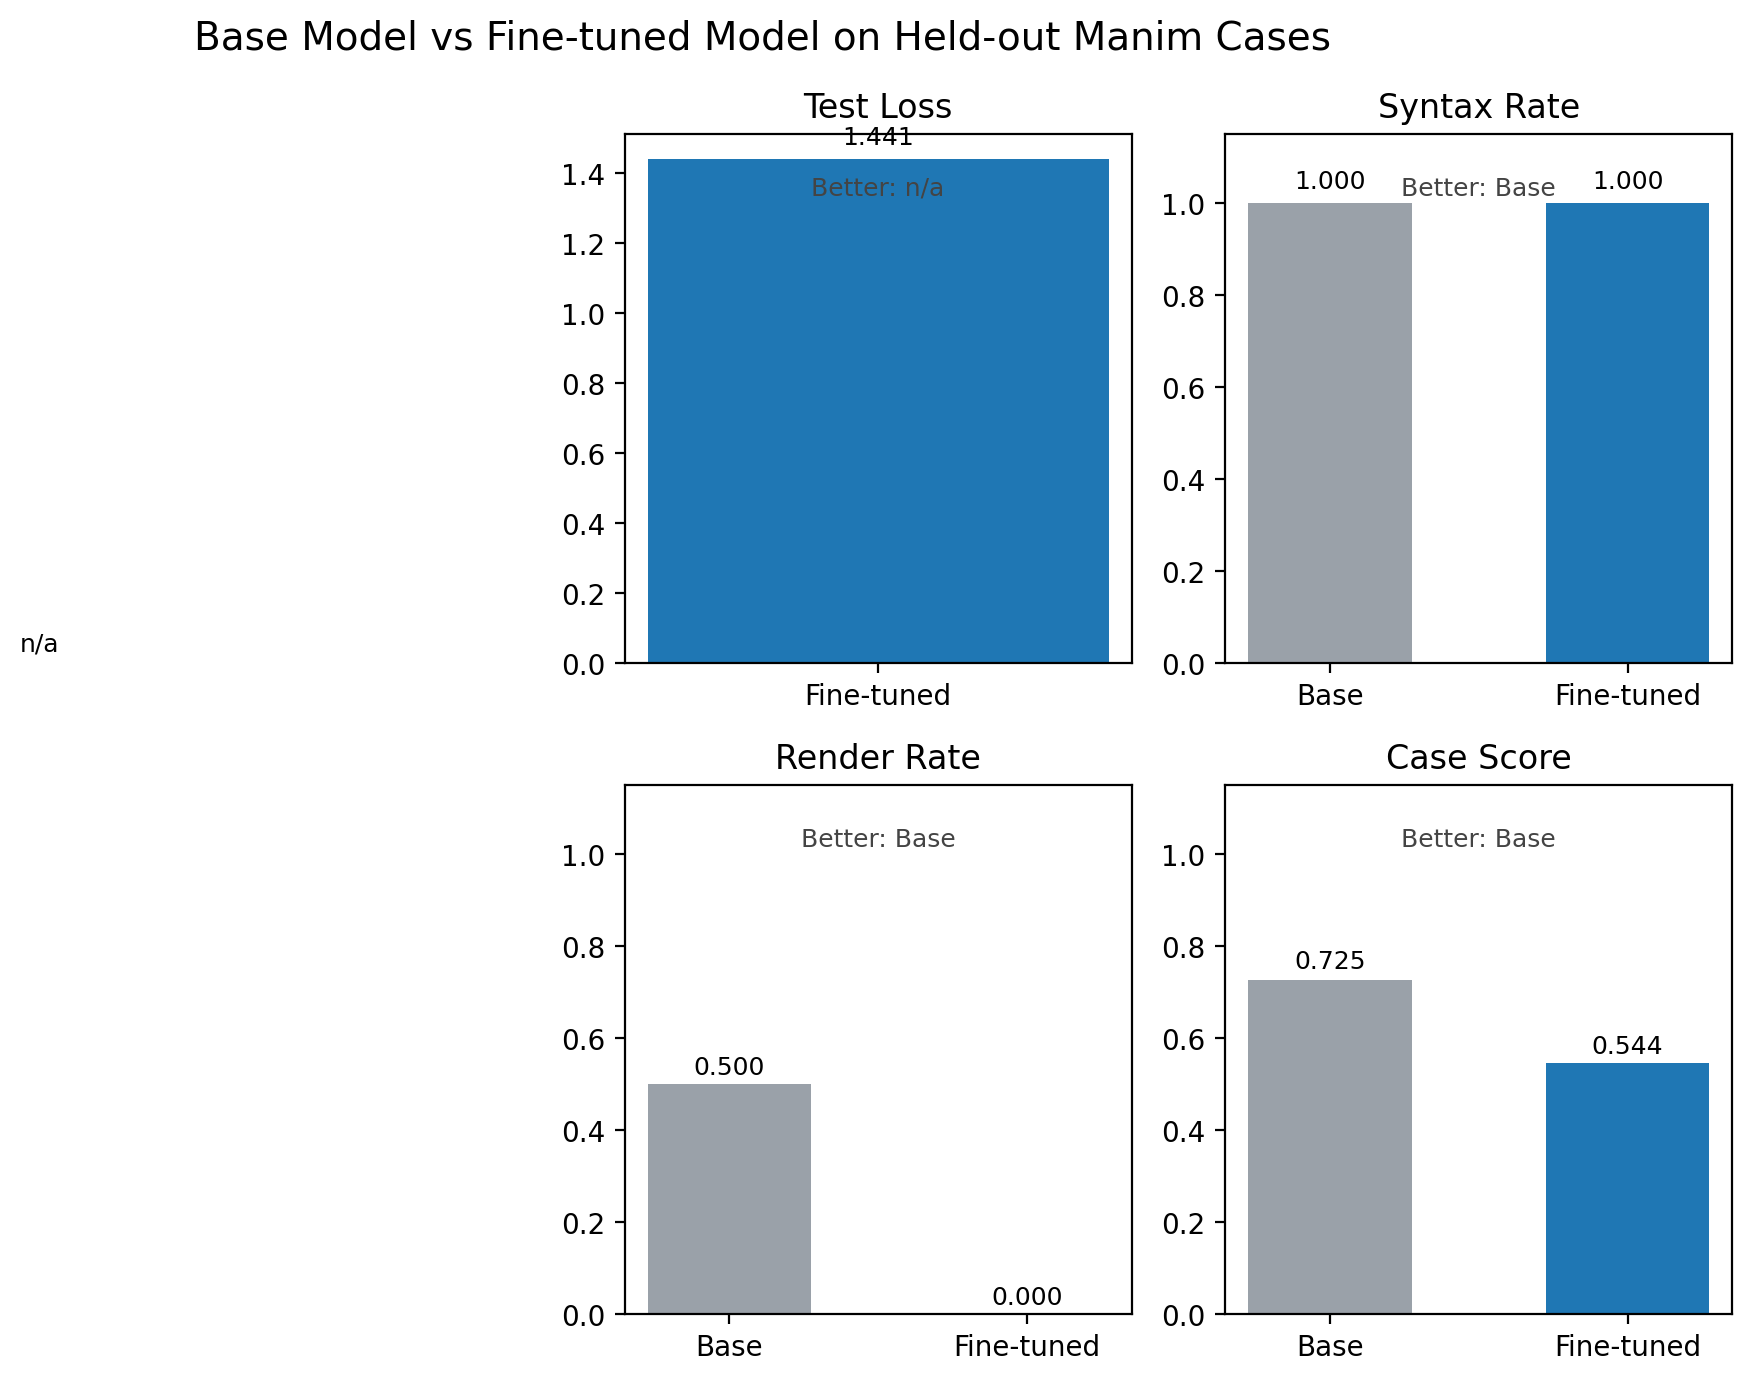
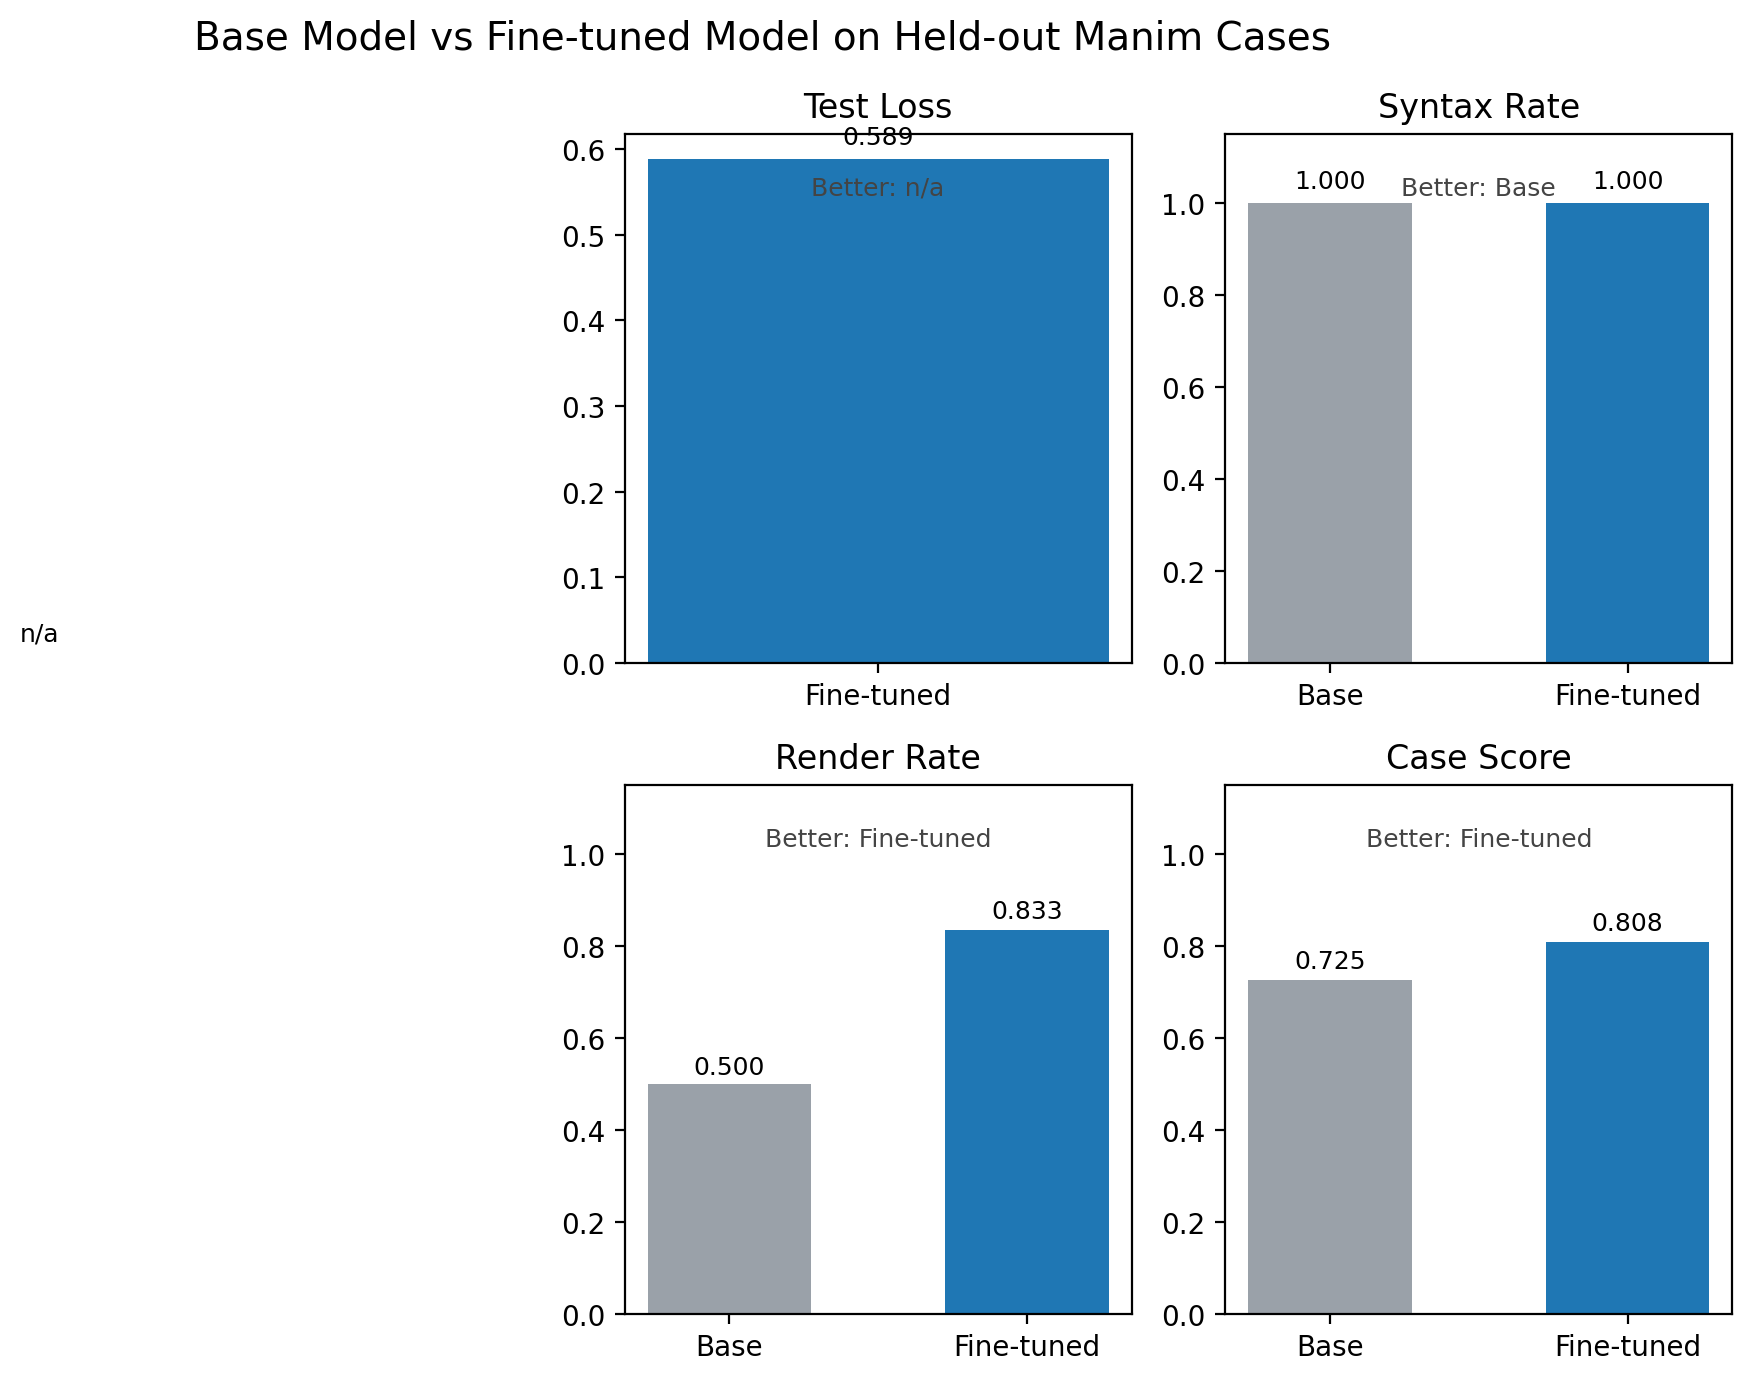
feat(pipeline): unify canonical dataset experiments

diff --git a/mac_pipeline/dataset.py b/mac_pipeline/dataset.py
@@ -4,7 +4,7 @@ import random
 from pathlib import Path
 from typing import Any
 
-from mac_pipeline.types import SplitConfig
+from mac_pipeline.types import DatasetFilterConfig, SplitConfig
 from mac_pipeline.utils import ensure_dir, load_records, write_json
 from mac_pipeline.utils import write_jsonl
 
@@ -62,6 +62,15 @@ def _split_cases(cases: list[dict[str, Any]], split_config: SplitConfig) -> dict
     }
 
 
+def _matches_filter(case: dict[str, Any], dataset_filter: DatasetFilterConfig) -> bool:
+    tags = set(case.get("tags", []))
+    if dataset_filter.include_tags and not set(dataset_filter.include_tags).issubset(tags):
+        return False
+    if dataset_filter.exclude_tags and set(dataset_filter.exclude_tags) & tags:
+        return False
+    return True
+
+
 def _to_record(case: dict[str, Any]) -> dict[str, Any]:
     record = {
         "case_id": case["case_id"],
@@ -81,12 +90,23 @@ def _to_record(case: dict[str, Any]) -> dict[str, Any]:
     return record
 
 
-def build_dataset(source_path: Path, output_dir: Path, split_config: SplitConfig) -> dict[str, Any]:
+def build_dataset(
+    source_path: Path,
+    output_dir: Path,
+    split_config: SplitConfig,
+    dataset_filter: DatasetFilterConfig | None = None,
+) -> dict[str, Any]:
     source_cases = [_validate_case(case) for case in load_records(source_path)]
-    case_ids = [case["case_id"] for case in source_cases]
+    effective_filter = dataset_filter or DatasetFilterConfig()
+    filtered_cases = [
+        case for case in source_cases if _matches_filter(case, effective_filter)
+    ]
+    if not filtered_cases:
+        raise ValueError(f"No dataset cases matched filter for {source_path}.")
+    case_ids = [case["case_id"] for case in filtered_cases]
     if len(case_ids) != len(set(case_ids)):
         raise ValueError(f"Duplicate case_id values found in {source_path}.")
-    split_map = _split_cases(source_cases, split_config)
+    split_map = _split_cases(filtered_cases, split_config)
     ensure_dir(output_dir)
     counts: dict[str, int] = {}
     for split_name, cases in split_map.items():
@@ -97,6 +117,10 @@ def build_dataset(source_path: Path, output_dir: Path, split_config: SplitConfig
         "source_dataset": str(source_path),
         "output_dir": str(output_dir),
         "split_seed": split_config.seed,
+        "dataset_filter": {
+            "include_tags": effective_filter.include_tags,
+            "exclude_tags": effective_filter.exclude_tags,
+        },
         "counts": counts,
     }
     write_json(output_dir / "manifest.json", manifest)

diff --git a/scripts/rebuild_canonical_dataset.py b/scripts/rebuild_canonical_dataset.py
@@ -1,0 +1,72 @@
+from __future__ import annotations
+
+import json
+from pathlib import Path
+
+
+REPO_ROOT = Path(__file__).resolve().parent.parent
+OUTPUT_PATH = REPO_ROOT / "data" / "manim_dataset.jsonl"
+SOURCE_SPECS = [
+    ("data/manim_seed_cases.json", ["tier:gold", "source:local"]),
+    ("data/manim_docs_seed_cases.jsonl", ["tier:gold", "source:docs"]),
+    ("data/manim_docs_feature_cases.jsonl", ["tier:gold", "source:docs"]),
+    ("data/manim_converted_cases.jsonl", ["tier:gold", "source:local"]),
+    ("data/manim_converted_cases_round2.jsonl", ["tier:gold", "source:local"]),
+    ("data/manim_converted_cases_round3.json", ["tier:gold", "source:local"]),
+    ("data/manim_longform_cases.json", ["tier:gold", "source:local"]),
+    ("data/manim_repo_plain_verified.jsonl", ["tier:silver", "source:repo"]),
+]
+
+
+def _load_records(path: Path) -> list[dict]:
+    if path.suffix == ".jsonl":
+        return [json.loads(line) for line in path.read_text().splitlines() if line.strip()]
+    payload = json.loads(path.read_text())
+    if not isinstance(payload, list):
+        raise ValueError(f"{path} must contain a JSON array.")
+    return payload
+
+
+def _duration_tags(case: dict) -> list[str]:
+    duration = case.get("target_duration_seconds")
+    if duration is None:
+        return []
+    if duration <= 6:
+        return ["duration:5s"]
+    if duration <= 12:
+        return ["duration:10s"]
+    if duration <= 22:
+        return ["duration:20s"]
+    if duration <= 40:
+        return ["duration:30s"]
+    return ["duration:50s"]
+
+
+def _merge_tags(case: dict, extra_tags: list[str]) -> dict:
+    merged = dict(case)
+    tags = list(case.get("tags", []))
+    for tag in extra_tags + _duration_tags(case):
+        if tag not in tags:
+            tags.append(tag)
+    merged["tags"] = tags
+    return merged
+
+
+def main() -> None:
+    cases: list[dict] = []
+    seen_case_ids: set[str] = set()
+    for relative_path, extra_tags in SOURCE_SPECS:
+        path = REPO_ROOT / relative_path
+        for case in _load_records(path):
+            case_id = case["case_id"]
+            if case_id in seen_case_ids:
+                raise ValueError(f"Duplicate case_id while rebuilding canonical dataset: {case_id}")
+            seen_case_ids.add(case_id)
+            cases.append(_merge_tags(case, extra_tags))
+
+    OUTPUT_PATH.write_text("".join(json.dumps(case) + "\n" for case in cases))
+    print(f"Wrote {len(cases)} cases to {OUTPUT_PATH}")
+
+
+if __name__ == "__main__":
+    main()

diff --git a/scripts/build_split_variant.py b/scripts/build_split_variant.py
@@ -1,0 +1,62 @@
+from __future__ import annotations
+
+import argparse
+import json
+import shutil
+from pathlib import Path
+
+
+def _load_jsonl(path: Path) -> list[dict]:
+    return [json.loads(line) for line in path.read_text().splitlines() if line.strip()]
+
+
+def _write_jsonl(path: Path, records: list[dict]) -> None:
+    path.parent.mkdir(parents=True, exist_ok=True)
+    with path.open("w") as handle:
+        for record in records:
+            handle.write(json.dumps(record) + "\n")
+
+
+def _filter_records(records: list[dict], exclude_tags: set[str]) -> list[dict]:
+    if not exclude_tags:
+        return records
+    filtered = []
+    for record in records:
+        tags = set(record.get("tags", []))
+        if tags & exclude_tags:
+            continue
+        filtered.append(record)
+    return filtered
+
+
+def main() -> None:
+    parser = argparse.ArgumentParser(description="Build a filtered dataset split variant.")
+    parser.add_argument("--source-dir", required=True)
+    parser.add_argument("--output-dir", required=True)
+    parser.add_argument("--exclude-tags", nargs="*", default=[])
+    args = parser.parse_args()
+
+    source_dir = Path(args.source_dir).resolve()
+    output_dir = Path(args.output_dir).resolve()
+    output_dir.mkdir(parents=True, exist_ok=True)
+    exclude_tags = set(args.exclude_tags)
+
+    for split in ("train", "valid"):
+        records = _load_jsonl(source_dir / f"{split}.jsonl")
+        _write_jsonl(output_dir / f"{split}.jsonl", _filter_records(records, exclude_tags))
+
+    shutil.copy2(source_dir / "test.jsonl", output_dir / "test.jsonl")
+    manifest = json.loads((source_dir / "manifest.json").read_text())
+    manifest["output_dir"] = str(output_dir)
+    manifest["variant_exclude_tags"] = sorted(exclude_tags)
+    manifest["counts"] = {
+        "train": len(_load_jsonl(output_dir / "train.jsonl")),
+        "valid": len(_load_jsonl(output_dir / "valid.jsonl")),
+        "test": len(_load_jsonl(output_dir / "test.jsonl")),
+    }
+    (output_dir / "manifest.json").write_text(json.dumps(manifest, indent=2) + "\n")
+    print(json.dumps(manifest, indent=2))
+
+
+if __name__ == "__main__":
+    main()

diff --git a/mac_pipeline/types.py b/mac_pipeline/types.py
@@ -14,6 +14,12 @@ class SplitConfig:
 
 
 @dataclass
+class DatasetFilterConfig:
+    include_tags: list[str] = field(default_factory=list)
+    exclude_tags: list[str] = field(default_factory=list)
+
+
+@dataclass
 class TrainConfig:
     fine_tune_type: str = "lora"
     optimizer: str = "adamw"
@@ -77,6 +83,7 @@ class ExperimentConfig:
     eval_output_path: str
     results_tsv: str = "results.tsv"
     run_loss_eval: bool = True
+    dataset_filter: DatasetFilterConfig = field(default_factory=DatasetFilterConfig)
     splits: SplitConfig = field(default_factory=SplitConfig)
     train: TrainConfig = field(default_factory=TrainConfig)
     generation: GenerationConfig = field(default_factory=GenerationConfig)
@@ -94,6 +101,7 @@ class ExperimentConfig:
             eval_output_path=raw["eval_output_path"],
             results_tsv=raw.get("results_tsv", "results.tsv"),
             run_loss_eval=raw.get("run_loss_eval", True),
+            dataset_filter=DatasetFilterConfig(**raw.get("dataset_filter", {})),
             splits=SplitConfig(**raw.get("splits", {})),
             train=TrainConfig(**raw.get("train", {})),
             generation=GenerationConfig(**raw.get("generation", {})),

diff --git a/mac_pipeline/cli.py b/mac_pipeline/cli.py
@@ -40,7 +40,7 @@ def cmd_build_dataset(args: argparse.Namespace) -> None:
     config, repo_root = _load_config(Path(args.config))
     source_path = resolve_path(repo_root, args.source or config.source_dataset)
     dataset_dir = resolve_path(repo_root, config.dataset_dir)
-    manifest = build_dataset(source_path, dataset_dir, config.splits)
+    manifest = build_dataset(source_path, dataset_dir, config.splits, config.dataset_filter)
     print(f"Built dataset at {dataset_dir}")
     print(manifest)
 
@@ -134,7 +134,7 @@ def cmd_run(args: argparse.Namespace) -> None:
     dataset_dir = resolve_path(repo_root, config.dataset_dir)
     adapter_path = resolve_path(repo_root, config.adapter_path)
     output_path = resolve_path(repo_root, config.eval_output_path)
-    build_dataset(source_path, dataset_dir, config.splits)
+    build_dataset(source_path, dataset_dir, config.splits, config.dataset_filter)
     train_adapter(
         config,
         dataset_dir,

diff --git a/scripts/refresh_comparison_plot.py b/scripts/refresh_comparison_plot.py
@@ -1,0 +1,33 @@
+from __future__ import annotations
+
+from pathlib import Path
+import sys
+
+
+REPO_ROOT = Path(__file__).resolve().parent.parent
+if str(REPO_ROOT) not in sys.path:
+    sys.path.insert(0, str(REPO_ROOT))
+
+from mac_pipeline.plotting import plot_eval_comparison
+
+
+def main() -> int:
+    baseline_eval = REPO_ROOT / "artifacts/evals/m4-max-qwen25coder-3b-base-v2.json"
+    finetuned_eval = REPO_ROOT / "artifacts/evals/m4-max-qwen25coder-3b.json"
+    output_path = REPO_ROOT / "docs/figures/base-vs-finetuned.png"
+
+    if not baseline_eval.exists() or not finetuned_eval.exists():
+        print("Skipping plot refresh: missing eval artifacts.")
+        return 0
+
+    plot_eval_comparison(
+        baseline_eval_path=baseline_eval,
+        finetuned_eval_path=finetuned_eval,
+        output_path=output_path,
+    )
+    print(f"Updated {output_path}")
+    return 0
+
+
+if __name__ == "__main__":
+    raise SystemExit(main())

diff --git a/README.md b/README.md
@@ -46,24 +46,22 @@ uv sync
 
 ## Quick Start
 
-Refresh the official-docs seed set and merge it with the local hand-written cases:
+Refresh the official-docs seed set:
 
 ```bash
 uv run python -m mac_pipeline.cli import-doc-seeds \
   --manifest data/manim_docs_sources.json \
   --output data/manim_docs_seed_cases.jsonl
 
-uv run python -m mac_pipeline.cli merge-case-files \
-  --inputs data/manim_seed_cases.json data/manim_docs_seed_cases.jsonl \
-  --output data/manim_bootstrap_cases.jsonl
+uv run python -m mac_pipeline.cli import-doc-seeds \
+  --manifest data/manim_docs_feature_sources.json \
+  --output data/manim_docs_feature_cases.jsonl
 ```
 
-Merge the converted ML and chemistry gold cases into the active bootstrap dataset:
+Rebuild the single canonical dataset file:
 
 ```bash
-uv run python -m mac_pipeline.cli merge-case-files \
-  --inputs data/manim_seed_cases.json data/manim_docs_seed_cases.jsonl data/manim_converted_cases.jsonl data/manim_converted_cases_round2.jsonl \
-  --output data/manim_full_bootstrap_cases_v2.jsonl
+uv run python scripts/rebuild_canonical_dataset.py
 ```
 
 Import external example repositories and split them into plain-Manim candidates versus custom-library conversion candidates:
@@ -93,6 +91,12 @@ Run one baseline fine-tuning experiment end-to-end:
 ```bash
 uv run python -m mac_pipeline.cli run \
   --config configs/m4_max_qwen25coder_3b.json
+```
+
+Install the lightweight git hook that refreshes the comparison figure from the local eval JSONs before each commit:
+
+```bash
+./scripts/install_hooks.sh
 ```
 
 Re-run evaluation only after you already have adapter weights:
@@ -131,12 +135,15 @@ data/manim_seed_cases.json    Hand-written starter dataset
 data/manim_docs_sources.json  Official docs example manifest
 data/manim_docs_seed_cases.jsonl
                               Imported official docs examples
-data/manim_bootstrap_cases.jsonl
-                              Combined bootstrap dataset used by the config
+data/manim_docs_feature_cases.jsonl
+                              Imported official docs examples focused on feature coverage
+data/manim_dataset.jsonl      Canonical training dataset used by experiment configs
 data/manim_converted_cases.jsonl
                               Plain-Manim ML and chemistry conversions inspired by MIT repos
-data/manim_full_bootstrap_cases.jsonl
-                              Active merged dataset used by the config
+data/manim_converted_cases_round3.json
+                              Additional converted ML and chemistry gold cases
+data/manim_longform_cases.json
+                              Curated 30s and 50s long-form scenes with richer animation structure
 data/manim_repo_sources.json  GitHub repo source manifest
 data/manim_repo_raw_candidates.jsonl
                               Imported repo-derived scene candidates
@@ -162,14 +169,15 @@ Good next expansions:
 5. Keep prompts concrete: scene objective, visual constraints, and required constructs.
 6. Prefer short, correct, idiomatic scenes over flashy long ones.
 
-Current external-source findings:
+Current dataset structure:
 
 - `ManimML` and `manim-Chemistry` are both MIT-licensed.
-- The current repo import produced `46` scene candidates total.
-- Only `1` candidate was plain Manim without custom-library dependencies.
-- The remaining `45` candidates are still valuable as concept seeds, but they should be reviewed or converted before joining the core training set.
-- Two manual conversion passes added `14` new plain-Manim gold cases, all verified with real low-quality renders.
-- The active merged dataset is now `28` cases total with a `21 / 3 / 4` train / valid / test split.
+- The canonical dataset is a single file with metadata tags such as `tier:gold`, `tier:silver`, `source:*`, and duration buckets like `duration:5s`.
+- The dataset now also includes explicit `duration:30s` and `duration:50s` cases for longer multi-beat scenes, not just short clips.
+- Recent long-form additions intentionally cover moving-camera calculus, vector-field flow, 3D surface orbit, and dynamic-programming table-fill patterns so the model sees richer multi-step scene logic.
+- Experiment configs can filter by tags without forking the dataset file.
+- Repo-derived plain-Manim examples stay inside the same dataset and are tagged `tier:silver` instead of being stored as a separate training corpus.
+- Source manifests and import outputs remain in `data/` for provenance and rebuilds, but `data/manim_dataset.jsonl` is the only dataset file the experiment configs should point at.
 
 ## Using the Karpathy Loop
 
@@ -181,25 +189,16 @@ Point your coding agent at `program.md`. The adapted loop treats:
 
 ## Current Comparison
 
-Below is the current direct comparison on the 4-case held-out split after expanding the converted gold set.
+Below is the current direct comparison figure for the latest locally available base-vs-fine-tuned eval pair. If you install the repo hook above, the plot is refreshed automatically from the local eval JSONs before each commit.
 
 ![Base vs Fine-tuned model comparison](docs/figures/base-vs-finetuned.png)
 
-Observed results:
-
-| Metric | Base model | Fine-tuned |
-| --- | ---: | ---: |
-| Syntax success rate | 1.000 | 1.000 |
-| Render success rate | 0.500 | 0.000 |
-| Mean case score | 0.725 | 0.544 |
-| Test loss | n/a | 1.441 |
-| Test perplexity | n/a | 4.225 |
-
 Interpretation:
 
-- The expanded dataset improved training stability, but the final checkpoint still overfit and regressed against the base model on held-out render success and case score.
-- The best validation loss in the training log appeared early, so the next loop should add checkpoint selection or early stopping rather than always taking the last adapter snapshot.
-- The base-model loss is marked `n/a` because `mlx_lm lora --test` requires an adapter path; the base comparison here is generation-based.
+- The latest early-stopped run improved held-out loss compared with the overfit final-checkpoint run, but the base model still performs better on held-out render success and mean case score.
+- The comparison inputs live in `artifacts/evals/m4-max-qwen25coder-3b-base-v2.json` and `artifacts/evals/m4-max-qwen25coder-3b.json`.
+- The base-model loss is still `n/a` in the plot because `mlx_lm lora --test` requires an adapter path; the base comparison remains generation-based.
+- Long-form curriculum experiments live in `configs/m4_max_qwen25coder_3b_with_longform.json` and `configs/m4_max_qwen25coder_3b_without_longform.json` so you can compare long-form mixing without forking the dataset.
 
 ## Notes
 
